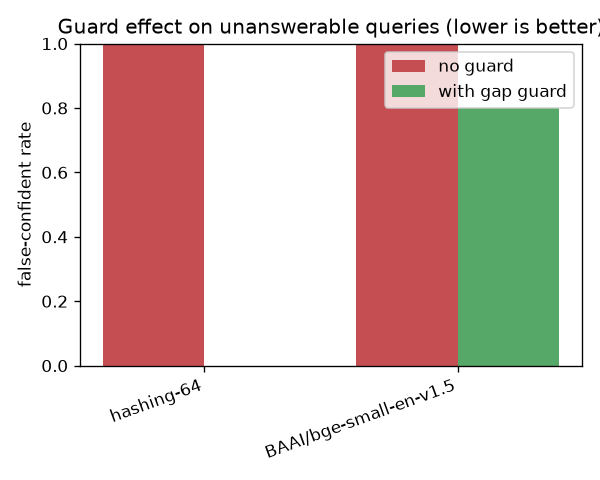
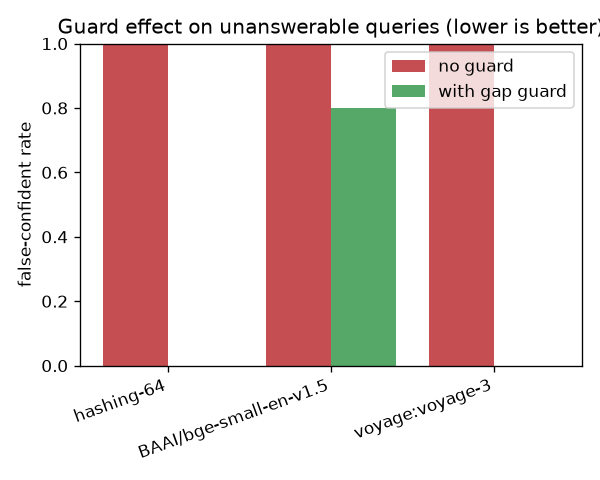
feat(eval): .env loader + Voyage cloud ablation rows + sharpened threshold finding

diff --git a/recall/_env.py b/recall/_env.py
@@ -1,0 +1,25 @@
+"""Minimal, dependency-free `.env` loader for local dev.
+
+Reads ``KEY=VALUE`` lines from a `.env` file into ``os.environ`` WITHOUT overriding variables that
+are already set. The `.env` file is gitignored — it is for local secrets (e.g. VOYAGE_API_KEY),
+never committed. Entry points call ``load_dotenv()`` so those keys are picked up.
+"""
+from __future__ import annotations
+
+import os
+from pathlib import Path
+
+
+def load_dotenv(path: str | Path = ".env") -> None:
+    p = Path(path)
+    if not p.exists():
+        return
+    for raw in p.read_text(encoding="utf-8").splitlines():
+        line = raw.strip()
+        if not line or line.startswith("#") or "=" not in line:
+            continue
+        key, _, val = line.partition("=")
+        key = key.strip()
+        val = val.strip().strip('"').strip("'")
+        if key and key not in os.environ:
+            os.environ[key] = val

diff --git a/tests/test_env_loader.py b/tests/test_env_loader.py
@@ -1,0 +1,21 @@
+import os
+
+from recall._env import load_dotenv
+
+
+def test_load_dotenv_parses_and_does_not_override(tmp_path, monkeypatch):
+    env = tmp_path / ".env"
+    env.write_text('FOO=bar\n# a comment\nBAZ="q u x"\nEXISTING=fromfile\n', encoding="utf-8")
+    monkeypatch.delenv("FOO", raising=False)
+    monkeypatch.delenv("BAZ", raising=False)
+    monkeypatch.setenv("EXISTING", "keep")
+
+    load_dotenv(env)
+
+    assert os.environ["FOO"] == "bar"
+    assert os.environ["BAZ"] == "q u x"
+    assert os.environ["EXISTING"] == "keep"  # already-set var is not overridden
+
+
+def test_load_dotenv_missing_file_is_noop(tmp_path):
+    load_dotenv(tmp_path / "does_not_exist.env")  # must not raise

diff --git a/recall/eval/__main__.py b/recall/eval/__main__.py
@@ -37,6 +37,9 @@ def _build_embedders() -> list[Embedder]:
 
 
 def main() -> None:
+    from recall._env import load_dotenv
+
+    load_dotenv()  # pick up VOYAGE_API_KEY / OPENAI_API_KEY from a gitignored .env if present
     embedders = _build_embedders()
     print(f"embedders: {[e.name for e in embedders]}")
     results = run_ablations(DEFAULT_DSN, embedders)

diff --git a/results/FINDINGS.md b/results/FINDINGS.md
@@ -26,8 +26,17 @@ We measured the top-cosine distribution for answerable vs. unanswerable queries 
 
 | embedder | answerable cos (min–max) | unanswerable cos (min–max) | separable? | good threshold | FCR @0.50 | FCR @calibrated |
 |---|---|---|---|---|---|---|
-| hashing-64 | 0.30 – 0.68 | 0.35 – 0.45 | no (overlap) | — | 0.00 | — |
+| hashing-64 | 0.30 – 0.68 | 0.35 – 0.45 | no (overlap) | — | 0.00\* | — |
 | bge-small (FastEmbed) | 0.70 – 0.90 | 0.50 – 0.64 | yes | ~0.70 | **0.80** | **0.00** |
+| voyage-3 | 0.53 – 0.70 | 0.09 – 0.32 | yes | ~0.50 | **0.00** | **0.00** |
+
+Three embedders, three completely different cosine regimes. The fixed 0.50 threshold happens to sit
+in Voyage's clean gap (unanswerable ≈ 0.1–0.3, answerable ≈ 0.5–0.7), sits *below the entire* bge
+distribution (so the guard never fires — FCR 0.80), and lands inside hashing's overlap. **It works
+for one strong model by luck, fails for another strong model, and cannot work for the weak one.**
+(\* hashing's 0.00 at 0.50 is misleading: every hashing cosine is low, so it also wrongly flags many
+*answerable* queries as gaps.) OpenAI is omitted — the available key had no quota, and the harness
+skipped it cleanly (graceful degradation is itself a design goal).
 
 Two lessons:
 

diff --git a/results/RESULTS.md b/results/RESULTS.md
@@ -10,3 +10,6 @@ Reproduce the local (key-free) rows with `make eval` — needs Docker + the loca
 | BAAI/bge-small-en-v1.5 | dense | 0.200 | 1.000 | 1.000 | 1.000 | 1.00 | 0.80 |
 | BAAI/bge-small-en-v1.5 | hybrid | 0.200 | 1.000 | 1.000 | 1.000 | 1.00 | 0.80 |
 | BAAI/bge-small-en-v1.5 | hybrid+rerank | 0.200 | 1.000 | 1.000 | 1.000 | 1.00 | 0.80 |
+| voyage:voyage-3 | dense | 0.200 | 1.000 | 1.000 | 1.000 | 1.00 | 0.00 |
+| voyage:voyage-3 | hybrid | 0.200 | 1.000 | 1.000 | 1.000 | 1.00 | 0.00 |
+| voyage:voyage-3 | hybrid+rerank | 0.200 | 1.000 | 1.000 | 1.000 | 1.00 | 0.00 |